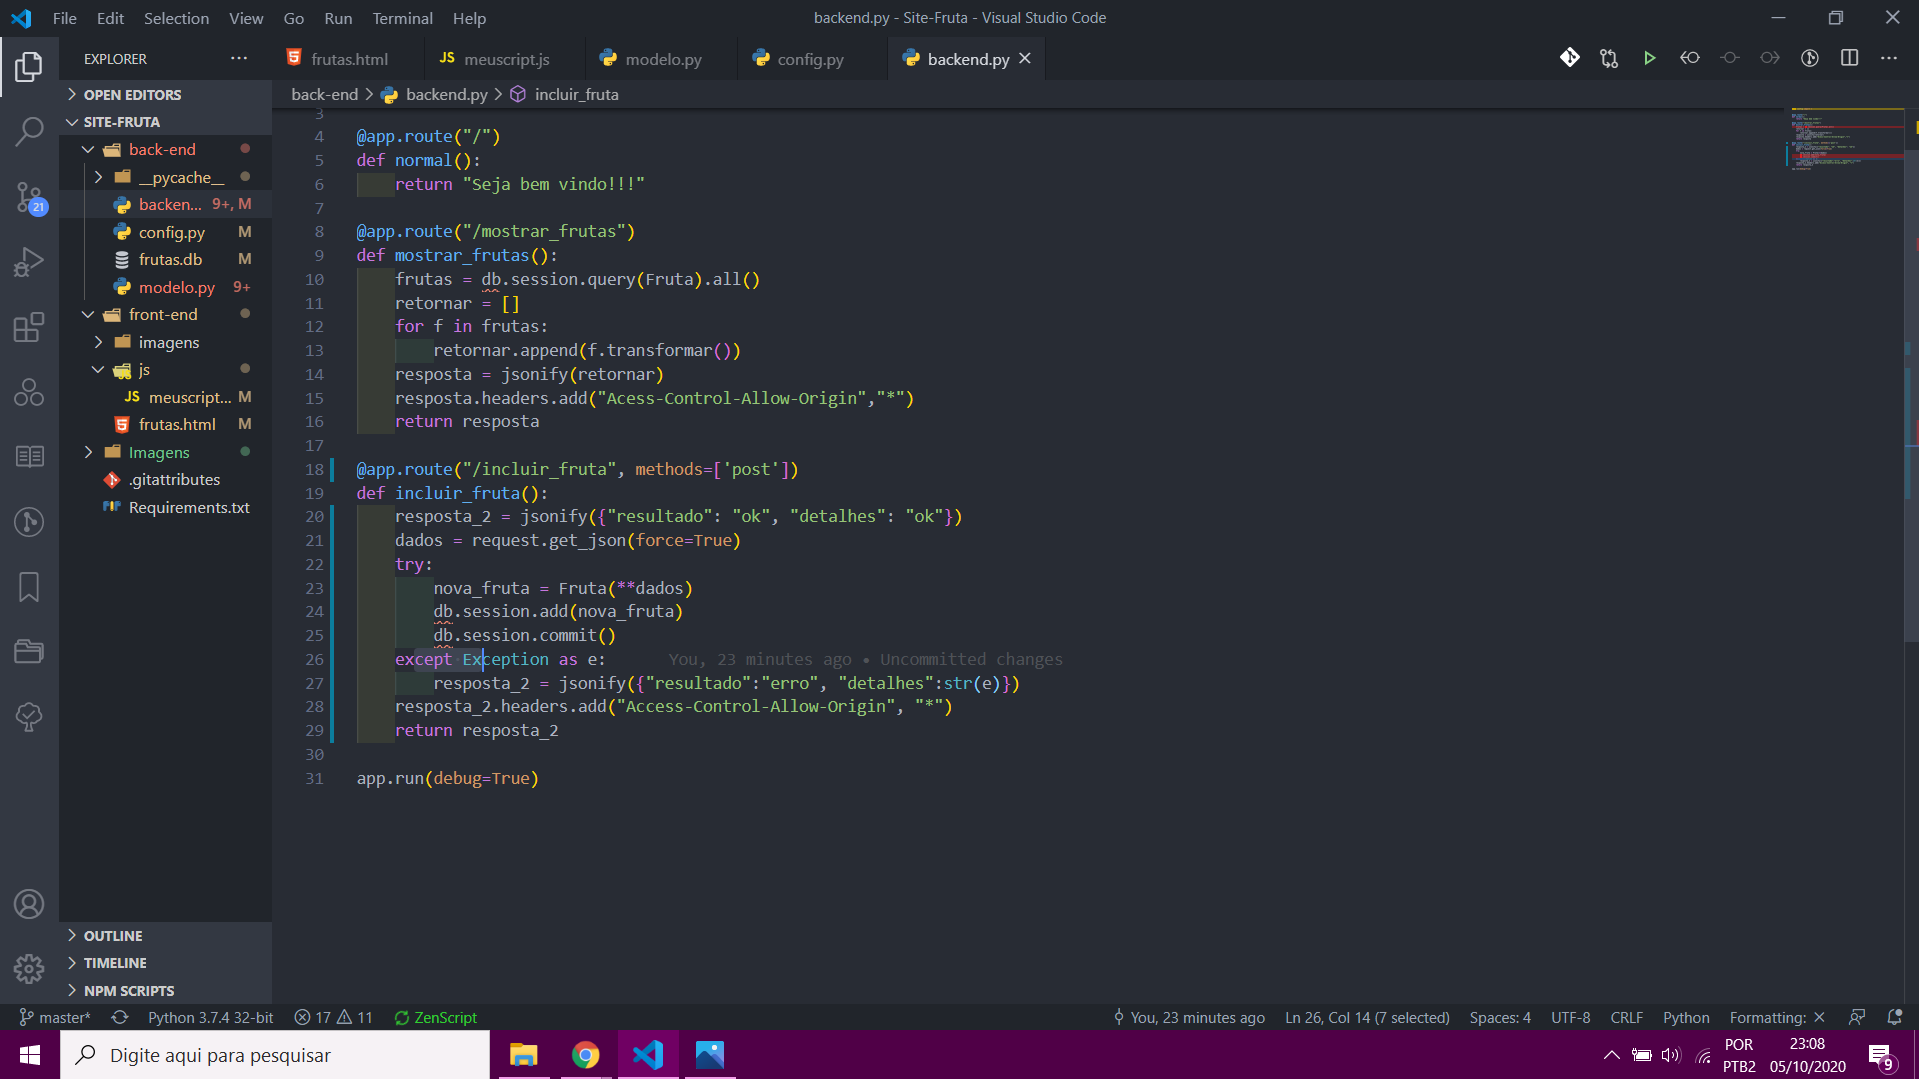
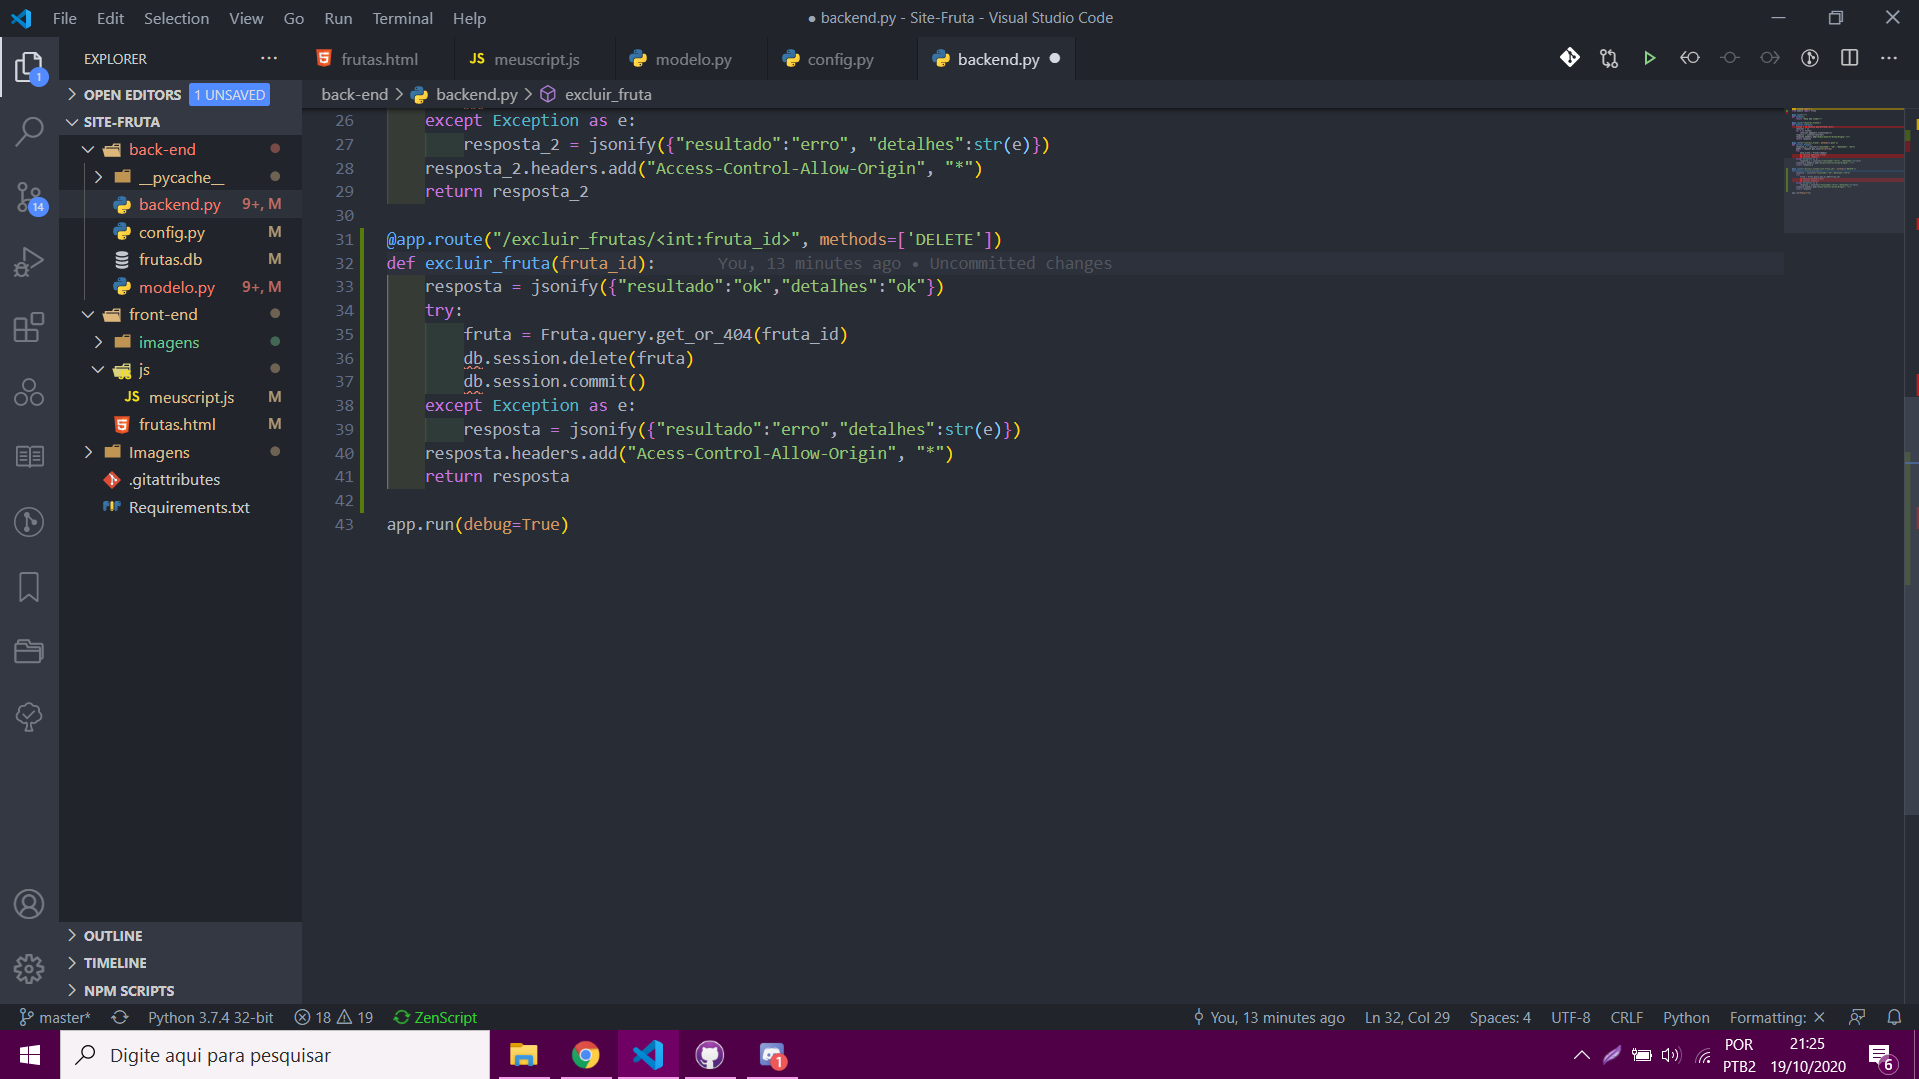
Adicionado função de Excluir
Agora é possível excluir linhas no banco de dados atrávez da página web.

diff --git a/front-end/js/meuscript.js b/front-end/js/meuscript.js
@@ -16,14 +16,19 @@ $( document ).ready(function() {
         //transformar cada fruta recebida em uma nova linha na tabela de frutas
         linhas_tabela="";
         for (var i in frutas){
-            lin = "<tr>"+
+            lin = '<tr id="linha_'+frutas[i].id+' ">'+
               "<th>"+ frutas[i].nome +"</th>"+
               "<td>"+frutas[i].arvore+"</td>"+
               "<td>"+frutas[i].nome_binomial +"</td>"+
               "<td>"+frutas[i].cor+"</td>"+
               "<td>"+frutas[i].calorias+"</td>"+
+              '<td><a href=# id="excluir_' + frutas[i].id + '"' +
+              'class="excluir_frutas"><img src="imagens/excluir.png" width=25px ' +
+              'alt = "Excluir fruta" title="Excluir fruta"></a>' +
+              '</td>'+
             "</tr>";
             linhas_tabela = linhas_tabela + lin;
+            $('#corpoTabelaFrutas').append(lin)
         }
         $('#corpoTabelaFrutas').html(linhas_tabela);
         $('#conteudoPrimario').addClass("hidden");
@@ -87,6 +92,30 @@ $( document ).ready(function() {
         alert("Erro ao mandar dados para o back end.");
     }
     });
+
+    $(document).on("click", ".excluir_frutas", function() {  
+        var componente_clicado = $(this).attr('id'); 
+        var nome_icone = "excluir_"; 
+        var id_fruta = componente_clicado.substring(nome_icone.length); 
+        $.ajax({ 
+           url: 'http://localhost:5000/excluir_frutas/'+id_fruta, 
+           type: 'DELETE', 
+           dataType: 'json', 
+           success: frutaExcluida,  
+           error: erroAoExcluir 
+        })});
+    
+        function frutaExcluida (retorno) { 
+           if (retorno.resultado == "ok") {
+            alert("Fruta removida com sucesso!"); 
+           } else { 
+              alert(retorno.resultado + ":" + retorno.detalhes); 
+           } 
+        } 
+        function erroAoExcluir (retorno) { 
+           alert("erro ao excluir dados, verifique o backend: "); 
+        };
+    
 
 
 });

diff --git a/front-end/frutas.html b/front-end/frutas.html
@@ -43,6 +43,7 @@
               <th scope="col">Árvore</th>
               <th scope="col">Cor</th>
               <th scope="col">Calorias</th>
+              <th scope="col">Operações</th>
             </tr>
           </thead>
           <tbody id="corpoTabelaFrutas">

diff --git a/back-end/config.py b/back-end/config.py
@@ -1,16 +1,13 @@
-from flask import Flask, jsonify, request
+from flask import Flask, render_template, jsonify, request
 from flask_sqlalchemy import SQLAlchemy
-from modelo import Fruta
 from flask_cors import CORS
 import os
 import json
-app = Flask(__name__) 
-CORS(app)
-# caminho do arquivo de banco de dados 
-caminho = os.path.dirname(os.path.abspath(__file__))
-arquivobd = os.path.join(caminho, "frutas.db") 
-# sqlalchemy 
-app.config["SQLALCHEMY_DATABASE_URI"] = "sqlite:///"+arquivobd 
-app.config["SQLALCHEMY_TRACK_MODIFICATIONS"] = False # remover warnings 
-db = SQLAlchemy(app)
 
+app = Flask(__name__)
+CORS(app)
+caminho = os.path.dirname(os.path.abspath(__file__))
+arquivobd = os.path.join(caminho, "frutas.db")
+app.config['SQLALCHEMY_DATABASE_URI'] = "sqlite:///"+arquivobd
+app.config['SQLALCHEMY_TRACK_MODIFICATIONS'] = False  # remover warnings
+db = SQLAlchemy(app)

diff --git a/back-end/backend.py b/back-end/backend.py
@@ -1,5 +1,5 @@
 from config import *
-
+from modelo import Fruta
 
 @app.route("/")
 def normal():
@@ -27,5 +27,18 @@ def incluir_fruta():
         resposta_2 = jsonify({"resultado":"erro", "detalhes":str(e)}) 
     resposta_2.headers.add("Access-Control-Allow-Origin", "*") 
     return resposta_2
+
+@app.route("/excluir_frutas/<int:fruta_id>", methods=['DELETE'])
+def excluir_fruta(fruta_id):
+    print("aaaaaaaaaaaaa")
+    resposta = jsonify({"resultado":"ok","detalhes":"ok"})
+    try:
+        fruta = Fruta.query.get_or_404(fruta_id)
+        db.session.delete(fruta)
+        db.session.commit()
+    except Exception as e:
+        resposta = jsonify({"resultado":"erro","detalhes":str(e)})
+    resposta.headers.add("Acess-Control-Allow-Origin", "*")
+    return resposta
 
 app.run(debug=True)

diff --git a/back-end/modelo.py b/back-end/modelo.py
@@ -1,13 +1,5 @@
 from config import  *
-import os
-app = Flask(__name__) 
-# caminho do arquivo de banco de dados 
-caminho = os.path.dirname(os.path.abspath(__file__))
-arquivobd = os.path.join(caminho, "frutas.db") 
-# sqlalchemy 
-app.config["SQLALCHEMY_DATABASE_URI"] = "sqlite:///"+arquivobd 
-app.config["SQLALCHEMY_TRACK_MODIFICTIONS"] = False # remover warnings 
-db = SQLAlchemy(app)
+
 
 class Fruta(db.Model):
     id = db.Column(db.Integer, primary_key=True)
